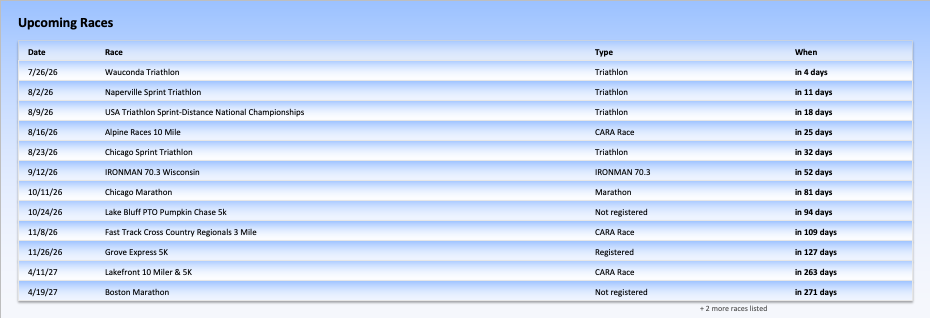
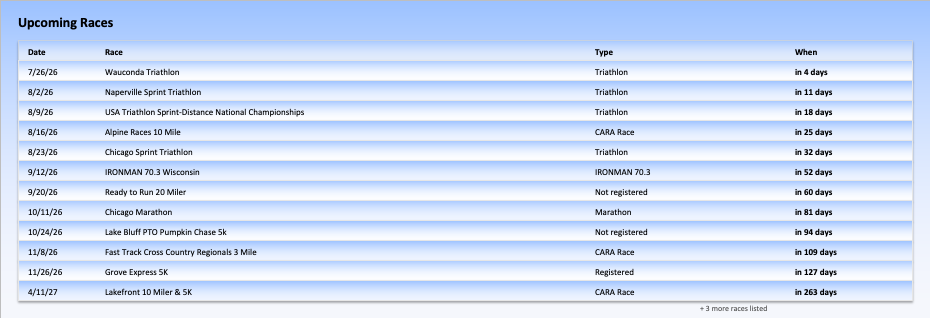
1

diff --git a/index.html b/index.html
@@ -33,7 +33,7 @@ body.viewer-open{overflow:hidden}
 <header class="header"><h1>Training Dashboard</h1></header>
 <div class="refresh-card" role="button" tabindex="0" onclick="refreshDashboard()" onkeydown="if(event.key==='Enter'||event.key===' '){event.preventDefault();refreshDashboard();}">
 <div class="refresh-title" id="refresh-label">&#8635; Refresh dashboard</div>
-<div class="refresh-time"><strong>Last update:</strong> 2026-07-22 12:00:40</div></div>
+<div class="refresh-time"><strong>Last update:</strong> 2026-07-22 12:46:33</div></div>
 <input class="tab-input" type="radio" name="tabs" id="tab-overview" checked>
 <input class="tab-input" type="radio" name="tabs" id="tab-training">
 <input class="tab-input" type="radio" name="tabs" id="tab-load">
@@ -46,76 +46,76 @@ body.viewer-open{overflow:hidden}
 <article class="card">
 <div class="card-title">Current Training Status</div>
 <div class="image-wrap">
-<img class="dashboard-image zoomable-image" src="images/CurrentTrainingStatus.png?v=20260722120040" alt="Current Training Status" role="button" tabindex="0" onclick="openImageViewer(this)" onkeydown="if(event.key==='Enter'||event.key===' '){event.preventDefault();openImageViewer(this);}">
+<img class="dashboard-image zoomable-image" src="images/CurrentTrainingStatus.png?v=20260722124633" alt="Current Training Status" role="button" tabindex="0" onclick="openImageViewer(this)" onkeydown="if(event.key==='Enter'||event.key===' '){event.preventDefault();openImageViewer(this);}">
 </div></article>
 <article class="card">
 <div class="card-title">Last 4 Weeks</div>
 <div class="image-wrap">
-<img class="dashboard-image zoomable-image" src="images/Last4Weeks.png?v=20260722120040" alt="Last 4 Weeks" role="button" tabindex="0" onclick="openImageViewer(this)" onkeydown="if(event.key==='Enter'||event.key===' '){event.preventDefault();openImageViewer(this);}">
+<img class="dashboard-image zoomable-image" src="images/Last4Weeks.png?v=20260722124633" alt="Last 4 Weeks" role="button" tabindex="0" onclick="openImageViewer(this)" onkeydown="if(event.key==='Enter'||event.key===' '){event.preventDefault();openImageViewer(this);}">
 </div></article>
 <article class="card">
 <div class="card-title">Upcoming Races</div>
 <div class="image-wrap">
-<img class="dashboard-image zoomable-image" src="images/UpcomingRaces.png?v=20260722120040" alt="Upcoming Races" role="button" tabindex="0" onclick="openImageViewer(this)" onkeydown="if(event.key==='Enter'||event.key===' '){event.preventDefault();openImageViewer(this);}">
+<img class="dashboard-image zoomable-image" src="images/UpcomingRaces.png?v=20260722124633" alt="Upcoming Races" role="button" tabindex="0" onclick="openImageViewer(this)" onkeydown="if(event.key==='Enter'||event.key===' '){event.preventDefault();openImageViewer(this);}">
 </div></article>
 <article class="card">
 <div class="card-title">PRs &amp; Season Bests</div>
 <div class="image-wrap">
-<img class="dashboard-image zoomable-image" src="images/PRs.png?v=20260722120040" alt="PRs &amp; Season Bests" role="button" tabindex="0" onclick="openImageViewer(this)" onkeydown="if(event.key==='Enter'||event.key===' '){event.preventDefault();openImageViewer(this);}">
+<img class="dashboard-image zoomable-image" src="images/PRs.png?v=20260722124633" alt="PRs &amp; Season Bests" role="button" tabindex="0" onclick="openImageViewer(this)" onkeydown="if(event.key==='Enter'||event.key===' '){event.preventDefault();openImageViewer(this);}">
 </div></article>
 </div></section>
 <section class="panel" id="training"><div class="grid two">
 <article class="card">
 <div class="card-title">My Training</div>
 <div class="image-wrap">
-<img class="dashboard-image zoomable-image" src="images/chtMyTraining.png?v=20260722120040" alt="My Training" role="button" tabindex="0" onclick="openImageViewer(this)" onkeydown="if(event.key==='Enter'||event.key===' '){event.preventDefault();openImageViewer(this);}">
+<img class="dashboard-image zoomable-image" src="images/chtMyTraining.png?v=20260722124633" alt="My Training" role="button" tabindex="0" onclick="openImageViewer(this)" onkeydown="if(event.key==='Enter'||event.key===' '){event.preventDefault();openImageViewer(this);}">
 </div></article>
 <article class="card">
 <div class="card-title">Weekly TSS</div>
 <div class="image-wrap">
-<img class="dashboard-image zoomable-image" src="images/chtwklyTSS.png?v=20260722120040" alt="Weekly TSS" role="button" tabindex="0" onclick="openImageViewer(this)" onkeydown="if(event.key==='Enter'||event.key===' '){event.preventDefault();openImageViewer(this);}">
+<img class="dashboard-image zoomable-image" src="images/chtwklyTSS.png?v=20260722124633" alt="Weekly TSS" role="button" tabindex="0" onclick="openImageViewer(this)" onkeydown="if(event.key==='Enter'||event.key===' '){event.preventDefault();openImageViewer(this);}">
 </div></article>
 <article class="card">
 <div class="card-title">Run Training</div>
 <div class="image-wrap">
-<img class="dashboard-image zoomable-image" src="images/chtRunTraining.png?v=20260722120040" alt="Run Training" role="button" tabindex="0" onclick="openImageViewer(this)" onkeydown="if(event.key==='Enter'||event.key===' '){event.preventDefault();openImageViewer(this);}">
+<img class="dashboard-image zoomable-image" src="images/chtRunTraining.png?v=20260722124633" alt="Run Training" role="button" tabindex="0" onclick="openImageViewer(this)" onkeydown="if(event.key==='Enter'||event.key===' '){event.preventDefault();openImageViewer(this);}">
 </div></article>
 <article class="card">
 <div class="card-title">Bike Training</div>
 <div class="image-wrap">
-<img class="dashboard-image zoomable-image" src="images/chtBikeTraining.png?v=20260722120040" alt="Bike Training" role="button" tabindex="0" onclick="openImageViewer(this)" onkeydown="if(event.key==='Enter'||event.key===' '){event.preventDefault();openImageViewer(this);}">
+<img class="dashboard-image zoomable-image" src="images/chtBikeTraining.png?v=20260722124633" alt="Bike Training" role="button" tabindex="0" onclick="openImageViewer(this)" onkeydown="if(event.key==='Enter'||event.key===' '){event.preventDefault();openImageViewer(this);}">
 </div></article>
 <article class="card">
 <div class="card-title">Swim Training</div>
 <div class="image-wrap">
-<img class="dashboard-image zoomable-image" src="images/chtSwimTraining.png?v=20260722120040" alt="Swim Training" role="button" tabindex="0" onclick="openImageViewer(this)" onkeydown="if(event.key==='Enter'||event.key===' '){event.preventDefault();openImageViewer(this);}">
+<img class="dashboard-image zoomable-image" src="images/chtSwimTraining.png?v=20260722124633" alt="Swim Training" role="button" tabindex="0" onclick="openImageViewer(this)" onkeydown="if(event.key==='Enter'||event.key===' '){event.preventDefault();openImageViewer(this);}">
 </div></article>
 <article class="card">
 <div class="card-title">Strength Training</div>
 <div class="image-wrap">
-<img class="dashboard-image zoomable-image" src="images/chtStrengthTraining.png?v=20260722120040" alt="Strength Training" role="button" tabindex="0" onclick="openImageViewer(this)" onkeydown="if(event.key==='Enter'||event.key===' '){event.preventDefault();openImageViewer(this);}">
+<img class="dashboard-image zoomable-image" src="images/chtStrengthTraining.png?v=20260722124633" alt="Strength Training" role="button" tabindex="0" onclick="openImageViewer(this)" onkeydown="if(event.key==='Enter'||event.key===' '){event.preventDefault();openImageViewer(this);}">
 </div></article>
 </div></section>
 <section class="panel" id="load"><div class="grid two">
 <article class="card">
 <div class="card-title">CTL Composition</div>
 <div class="image-wrap">
-<img class="dashboard-image zoomable-image" src="images/chtCTLComposition.png?v=20260722120040" alt="CTL Composition" role="button" tabindex="0" onclick="openImageViewer(this)" onkeydown="if(event.key==='Enter'||event.key===' '){event.preventDefault();openImageViewer(this);}">
+<img class="dashboard-image zoomable-image" src="images/chtCTLComposition.png?v=20260722124633" alt="CTL Composition" role="button" tabindex="0" onclick="openImageViewer(this)" onkeydown="if(event.key==='Enter'||event.key===' '){event.preventDefault();openImageViewer(this);}">
 </div></article>
 <article class="card">
 <div class="card-title">emaACT Composition</div>
 <div class="image-wrap">
-<img class="dashboard-image zoomable-image" src="images/chtEmaACTComposition.png?v=20260722120040" alt="emaACT Composition" role="button" tabindex="0" onclick="openImageViewer(this)" onkeydown="if(event.key==='Enter'||event.key===' '){event.preventDefault();openImageViewer(this);}">
+<img class="dashboard-image zoomable-image" src="images/chtEmaACTComposition.png?v=20260722124633" alt="emaACT Composition" role="button" tabindex="0" onclick="openImageViewer(this)" onkeydown="if(event.key==='Enter'||event.key===' '){event.preventDefault();openImageViewer(this);}">
 </div></article>
 <article class="card">
 <div class="card-title">CTL vs ACT</div>
 <div class="image-wrap">
-<img class="dashboard-image zoomable-image" src="images/chtCTLvsACT.png?v=20260722120040" alt="CTL vs ACT" role="button" tabindex="0" onclick="openImageViewer(this)" onkeydown="if(event.key==='Enter'||event.key===' '){event.preventDefault();openImageViewer(this);}">
+<img class="dashboard-image zoomable-image" src="images/chtCTLvsACT.png?v=20260722124633" alt="CTL vs ACT" role="button" tabindex="0" onclick="openImageViewer(this)" onkeydown="if(event.key==='Enter'||event.key===' '){event.preventDefault();openImageViewer(this);}">
 </div></article>
 <article class="card">
 <div class="card-title">TSB &amp; Load Ratio</div>
 <div class="image-wrap">
-<img class="dashboard-image zoomable-image" src="images/chtTSBLoadRatio.png?v=20260722120040" alt="TSB &amp; Load Ratio" role="button" tabindex="0" onclick="openImageViewer(this)" onkeydown="if(event.key==='Enter'||event.key===' '){event.preventDefault();openImageViewer(this);}">
+<img class="dashboard-image zoomable-image" src="images/chtTSBLoadRatio.png?v=20260722124633" alt="TSB &amp; Load Ratio" role="button" tabindex="0" onclick="openImageViewer(this)" onkeydown="if(event.key==='Enter'||event.key===' '){event.preventDefault();openImageViewer(this);}">
 </div></article>
 </div></section>
 </main>